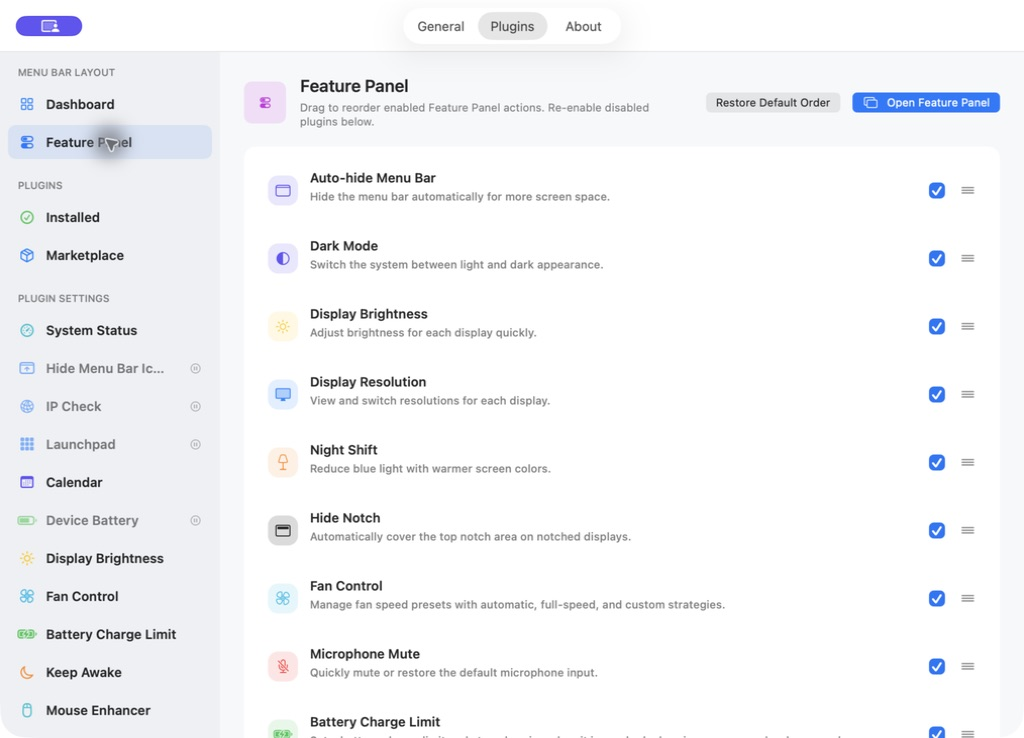
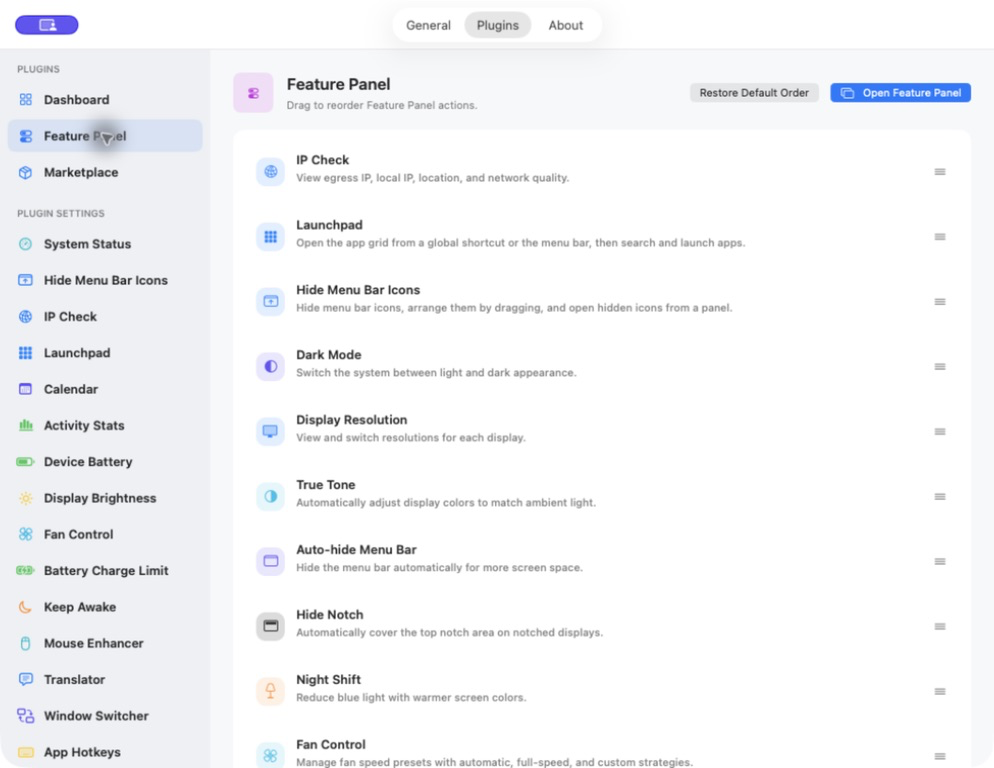
Refresh plugin layout screenshots and copy

diff --git a/Tests/Core/Plugins/PluginLocalizationCatalogAuditTests.swift b/Tests/Core/Plugins/PluginLocalizationCatalogAuditTests.swift
@@ -39,6 +39,15 @@ final class PluginLocalizationCatalogAuditTests: XCTestCase {
         "plugin.status.requiresReview",
     ]
 
+    private let pluginLayoutSettingsLocalizationKeys = [
+        "plugins.dashboard.description",
+        "plugins.dashboard.empty.description",
+        "plugins.dashboard.empty.title",
+        "plugins.featurePanel.description",
+        "plugins.featurePanel.empty.description",
+        "plugins.featurePanel.empty.title",
+    ]
+
     func testPluginStaticLocalizationKeysCoverAllSupportedLanguages() throws {
         var failures: [String] = []
 
@@ -110,6 +119,25 @@ final class PluginLocalizationCatalogAuditTests: XCTestCase {
         var failures: [String] = []
         for key in pluginManagementLocalizationKeys {
             validate(key: key, in: strings, pluginName: "Plugin Management", failures: &failures)
+        }
+
+        XCTAssertTrue(failures.isEmpty, failures.joined(separator: "\n"))
+    }
+
+    func testPluginLayoutSettingsLocalizationKeysCoverAllSupportedLanguages() throws {
+        let catalogURL = repositoryRoot
+            .appending(path: "Sources")
+            .appending(path: "Resources")
+            .appending(path: "Localization")
+            .appending(path: "Settings.xcstrings")
+        let catalog = try jsonObject(at: catalogURL)
+        guard let strings = catalog["strings"] as? [String: [String: Any]] else {
+            throw AuditError.invalidCatalog(catalogURL.path)
+        }
+
+        var failures: [String] = []
+        for key in pluginLayoutSettingsLocalizationKeys {
+            validate(key: key, in: strings, pluginName: "Plugin Layout Settings", failures: &failures)
         }
 
         XCTAssertTrue(failures.isEmpty, failures.joined(separator: "\n"))

diff --git a/changes/unreleased/dashboard-feature-panel-layout.md b/changes/unreleased/dashboard-feature-panel-layout.md
@@ -4,4 +4,4 @@ type: added
 area: Plugin Settings
 ---
 
-Dashboard components and Feature Panel actions can now be reordered independently. Installed plugins appear automatically on each surface they support, while the Marketplace handles installation, updates, and uninstallation; layout rows provide quick access to settings and contextual uninstall actions. The Plugins tab opens Marketplace when no installed plugin supports a layout and otherwise returns to a compatible page. Previously disabled built-in tools are restored once under the new always-available model.
+Dashboard components and Feature Panel actions can now be reordered independently. Installed plugins appear automatically on each surface they support, while the Marketplace handles installation, updates, and uninstallation; layout rows provide quick access to settings and contextual uninstall actions. The Plugins tab opens Marketplace when no installed plugin supports a layout and otherwise returns to a compatible page. Previously disabled built-in tools are restored once under the new always-available model. Dashboard and Feature Panel copy now consistently describes installed plugins and reordering, without retired enable or disable controls.
